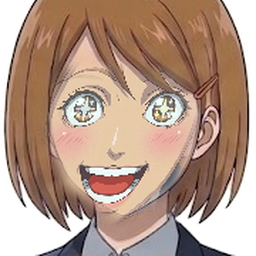
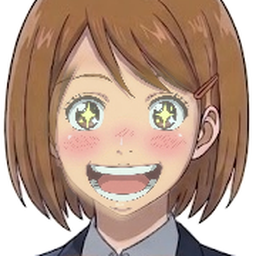
ひなたの表情をかわいい版に：キラキラ・号泣を差し替え、ぷんぷん・ジト目を追加。顔アップ6枚を背景なしで保存
Claude-Session: https://claude.ai/code/session_01J3pdLzyrunJ3YU9C2DaCDs

Changed region(s): [[0.1875, 0.25, 0.7812, 0.875], [0.4375, 0.5, 0.5312, 0.5625]]

diff --git a/tasks/board.md b/tasks/board.md
@@ -61,6 +61,6 @@
 | T054 | ep009_softbankg | 11/14（土）分：ソフトバンクグループ（オーナーがチャットで指示 2026-11-12 19:20 JST。T052 の1） | Claude | 完了 | 人(Studioで確認) | **2026-11-12 21:18 JST オーナーがチャットで OK。approval.json（11/14 18:00 JST）→ stage=upload（run 43216715127、source 43200979521）成功、11/14 18:00 JST 予約 https://www.youtube.com/watch?v=wxG6OKUzBF8 。ep009 の upload は再実行しない**。**2026-11-12 20:10 JST：run 43200979521 成功（9分20秒）をレビュー（画面の重なり・はみ出しなし、サムネ2人・重なりなし）。プレビュー https://claude.ai/artifact/BaBxCroZ9KBexGyUfhUnAr を #15 に投稿 https://github.com/makomako56/ai-money-channel/issues/15#issuecomment-6821858281 。OK なら approval.json（11/14 18:00 JST）→ stage=upload（source 43200979521）**。2026-11-12 19:40 JST：research・台本（124セリフ）・画面21枚・meta・thumbnail.json を push（c084bcd）。stage=all 実行中 run 43200979521（do_upload=false）。次の巡回で review-outputs を確認→Artifact プレビュー→#15 に承認依頼。OK なら approval.json（11/14 18:00 JST）→ stage=upload（source 43200979521）。2026-11-12 19:25 JST チャットのセッションが制作開始。research・台本・画面・meta・thumbnail.json → stage=all → プレビューを #15 に |
 | T055 | ep010_micron | 11/15（日）分：マイクロン（オーナーがチャットで指示 2026-11-12。T053 の1） | Claude | 完了 | 人(Studioで確認) | **2026-11-12 21:18 JST オーナーがチャットで OK。approval.json（11/15 18:00 JST）→ stage=upload（run 43216731855、source 43202453042）成功、11/15 18:00 JST 予約 https://www.youtube.com/watch?v=w3Oap9zwEDo 。ep010 の upload は再実行しない**。**2026-11-12 20:10 JST：run 43202453042 成功（8分42秒）をレビュー（画面の重なり・はみ出しなし、サムネ2人・重なりなし）。プレビュー https://claude.ai/artifact/4hrhu98eUUeMpZFav2BNNS を #15 に投稿（ep009 と同じコメント）。OK なら approval.json（11/15 18:00 JST）→ stage=upload（source 43202453042）。尺が9分未満のため「長くして」なら台本を足して再実行**。2026-11-12：research・台本（123セリフ）・画面21枚・meta・thumbnail.json を push。stage=all 実行中 run 43202453042（do_upload=false）。次の巡回で review-outputs を確認→Artifact プレビュー→#15 に承認依頼。OK なら approval.json（11/15 18:00 JST）→ stage=upload（source 43202453042） |
 | T056 | 共通 | サムネのデザインの型を増やす（見本6案：ピンク帯・数字ドーン・速報・VS・ノート・顔アップ） | 人 | 承認待ち | Claude→Codex | 2026-11-13 オーナー指示。見本 docs/サムネのデザイン見本/ 、プレビュー https://claude.ai/artifact/6KKLZGaLmGEURNtKjJVKAh 。オーナーが使う型を選んだら docs/作業依頼/07 を書いて Codex に依頼（thumbnail.json に design・effects、型ごとの描画、重なりチェック）。決まるまでは v3 |
-| T057 | 共通 | サムネ用の大げさな表情・ポーズを各10種追加（docs/サムネ用の表情リスト.md） | 人 | 作業中 | Claude(透過・登録) | 2026-11-13 ミライの「ジト目」「キラキラ」「絶叫」、ひなたの「にらみ」「絶叫」「キラキラ」「号泣」を登録（characters.yaml）。元画像は assets/characters/_stock/gemini/ に保存。生徒の指さし・頭を抱える（11/13）はひなたと別人のため保留→ひなたの基本画像を添付して作り直しを依頼。残り：ミライの指さし・頭を抱える等、ひなた全部。2026-11-13 オーナー指示。オーナーが Gemini で作成→Claude が透過・位置合わせ・characters.yaml に登録。まず「表情だけ」の一覧シートを各キャラ1枚 |
+| T057 | 共通 | サムネ用の大げさな表情・ポーズを各10種追加（docs/サムネ用の表情リスト.md） | 人 | 作業中 | Claude(透過・登録) | 2026-11-13 ミライの「ジト目」「キラキラ」「絶叫」、ひなたの「にらみ」「絶叫」「キラキラ」「号泣」「ぷんぷん」「ジト目」を登録（characters.yaml。キラキラ・号泣はオーナー指示で「かわいい版」に差し替え）。ひなたの顔アップ6枚（頭を抱える・指さし含む）を背景なしで assets/characters/hinata/closeup/ に保存（顔アップの型で使う）。元画像は assets/characters/_stock/gemini/ に保存。生徒の指さし・頭を抱える（11/13）はひなたと別人のため保留→ひなたの基本画像を添付して作り直しを依頼。残り：ミライの指さし・頭を抱える等、ひなた全部。2026-11-13 オーナー指示。オーナーが Gemini で作成→Claude が透過・位置合わせ・characters.yaml に登録。まず「表情だけ」の一覧シートを各キャラ1枚 |
 | T056 | 共通 | 題材提案 2026-11-13（11/16（月）18:00 公開分。★1 シスコ／2 アマゾン／3 アリババ） | 人 | 完了 | | 2026-11-13 09:23 JST オーナーが「1シスコ」を選択 → T057。 #15 https://github.com/makomako56/ai-money-channel/issues/15#issuecomment-6837432318 |
 | T057 | ep011_cisco | 11/16（月）分：シスコシステムズ（オーナーが1を選択 2026-11-13 09:23 JST） | Claude | 完了 | 人(Studioで確認) | **2026-11-13 17:33 JST オーナーが #15 で「シスコの動画OK」。approval.json（11/16 18:00 JST）→ stage=upload（run 43398119017、source 43342688094）成功、11/16 18:00 JST 予約 https://www.youtube.com/watch?v=tFsaiPbw1NM 。ep011 の upload は再実行しない**。**2026-11-13 10:45 JST：run 43342688094 成功（8分54秒）をレビュー（画面の重なり・はみ出しなし、サムネ2人・重なりなし）。プレビュー https://claude.ai/artifact/DivJU7GCMqGL3dxa8XC7WW を #15 に投稿 https://github.com/makomako56/ai-money-channel/issues/15#issuecomment-6841252403 。OK なら approval.json（11/16 18:00 JST）→ stage=upload（source 43342688094）。尺が9分未満のため「長くして」なら台本を足して再実行**。2026-11-13 10:30 JST：決算（11/12 発表、8〜10月 売上185億ドル・24%増）の数字で research・台本（127セリフ）・画面21枚・meta・thumbnail.json（v3・2人）を push。先の run 43342477363 は画面13修正のため取り消し |

diff --git a/assets/characters/_stock/gemini/README.md b/assets/characters/_stock/gemini/README.md
@@ -12,3 +12,4 @@
 注意：Gemini の一覧は服（金のリボン・フリル）と肌の色が基本画像と違う。顔だけを基本画像に合成して使う。
 | 2026-11-13_hinata_sheet1_mild.jpg | ひなたの表情一覧（驚き・ニヒル・照れ・羞恥・決意） | ひなた本人で服も一致。表情は控えめ（サムネ用の大げさな顔ではない）。ニヒル・照れ・決意は今後の合成候補 |
 | 2026-11-13_hinata_glare.jpg ほか3枚（scream・sparkle・cry） | ひなたの大きな顔4枚（にらみ・絶叫・キラキラ・号泣） | hinata_21〜24 に合成済み |
+| 2026-11-13_hinata_cute_*.jpg（6枚） | ひなたの「かわいい版」大きな顔（ぷんぷん・頭を抱える・指さし・ジト目・号泣・キラキラ） | キラキラ・号泣は hinata_23・24 をこの版で差し替え、ぷんぷん→hinata_25、ジト目→hinata_26。6枚とも背景を抜いた版を assets/characters/hinata/closeup/ に保存（顔アップのサムネ用。characters.yaml には未登録） |
